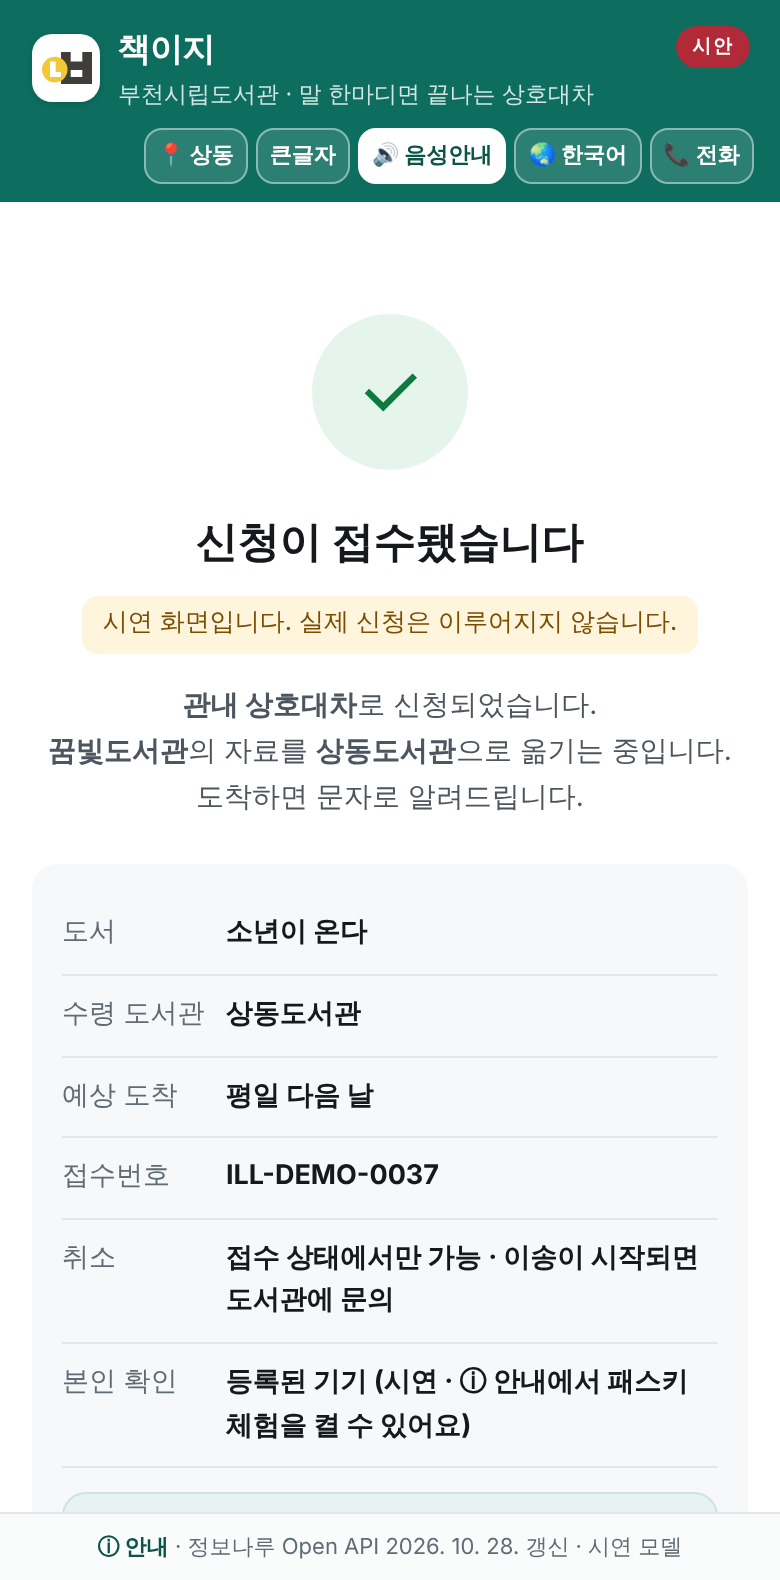
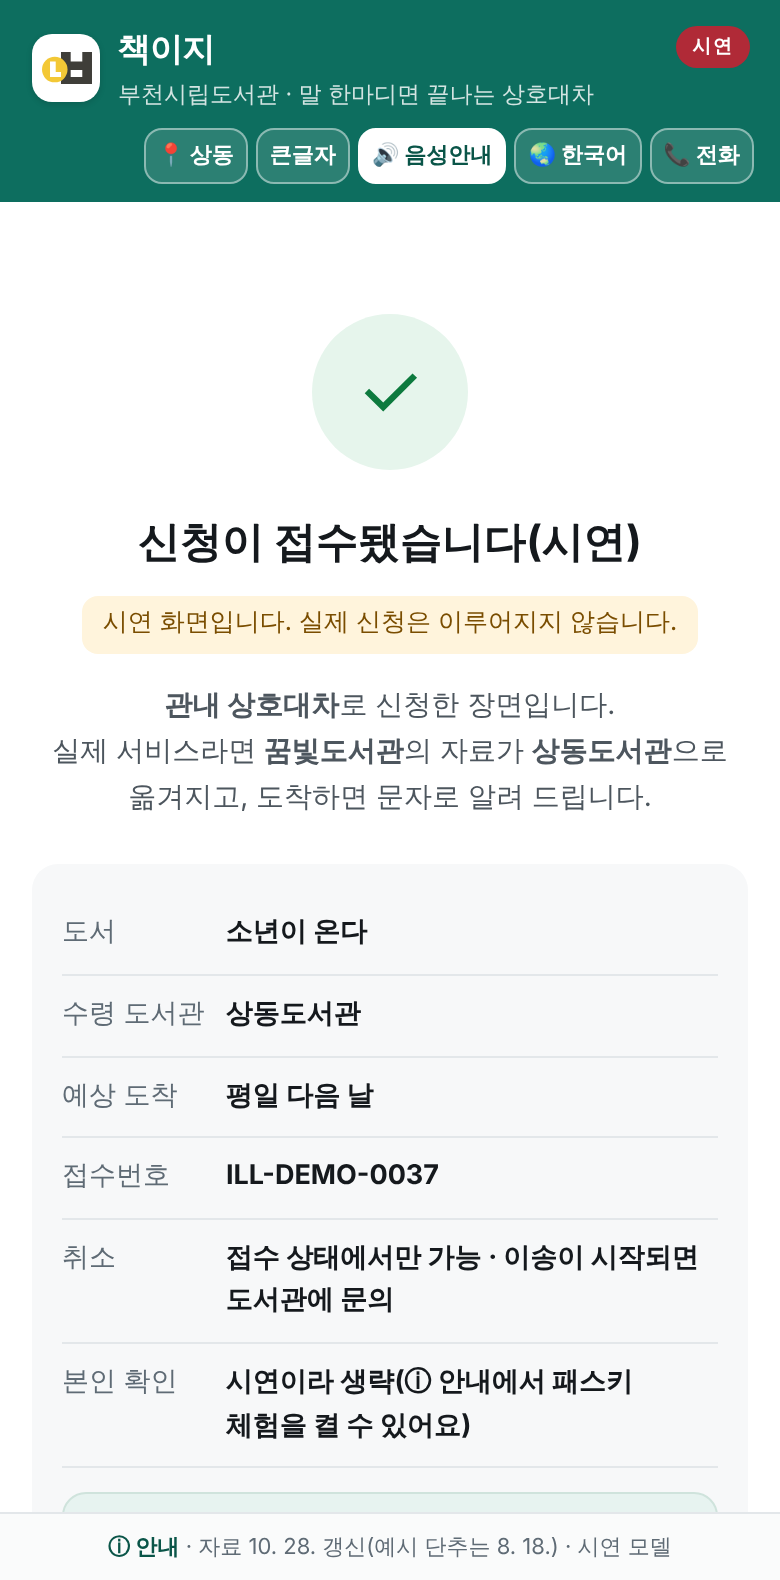
영상: 새 시연 웹(v1.12.18)·새 도구 문구로 다시 찍을 준비
- 비교 장면 오른쪽 시연 화면 5장을 v1.12.18에서 다시 찍음, 측정 날짜 「2026. 10. 27.」(담당자 확인)
- 명령 창 출력(t1~t4)을 오늘 서버로 다시 받음(접수 메모 「조회일 기준 대출 중」, 바로 이용 안내문, run.sh 끝 메시지)
- 판정 자막이 새 접수 메모 문구를 읽도록 정규식 고침(「역곡은 대출 중」이 「없음」으로 바뀌지 않게)

Claude-Session: https://claude.ai/code/session_01TtT9xcbTP3NzSioNJT8Spd

diff --git a/tools/video/cmp/compare.html b/tools/video/cmp/compare.html
@@ -94,7 +94,7 @@ html,body{margin:0;width:1280px;height:720px;overflow:hidden;background:#0f3d33;
     <div id="stamp">✓ 20초 만에 끝</div>
     <div class="meter"><div class="m"><span class="u">누른 수</span><span class="v" id="cb">0번</span></div><div class="m"><span class="u">걸린 시간</span><span class="v" id="tb">0초</span></div></div>
   </div>
-  <div id="bar"><span id="bar1">개발에 참여하지 않은 직원 3명이 시연 도서 5권으로 잰 가운데값(2026. 10. 27.~28.)</span><small id="bar2">책마다 3명 평균 · 왼쪽은 실제 누리집 화면(개인정보 가림), 누른 수와 시간은 측정 기록 · 시연 화면의 신청은 실제 접수가 아닙니다 · 기록은 저장소 server/lab/out</small></div>
+  <div id="bar"><span id="bar1">개발에 참여하지 않은 직원 3명이 시연 도서 5권으로 잰 가운데값(2026. 10. 27.)</span><small id="bar2">책마다 3명 평균 · 왼쪽은 실제 누리집 화면(개인정보 가림), 누른 수와 시간은 측정 기록 · 시연 화면의 신청은 실제 접수가 아닙니다 · 기록은 저장소 server/lab/out</small></div>
 </div>
 <script>
 const $=id=>document.getElementById(id);

diff --git a/tools/video/record.py b/tools/video/record.py
@@ -277,12 +277,12 @@ async def main():
         await hold("01")
 
         # ── 4. 같은 책을 신청해 보면(비교 장면, 4배속) ──
-        scene("04", "4 같은 책을 신청해 보면(비교)", "왼쪽 누리집 실제 화면 8장(개인정보 가림)에 누른 수·시간이 오름, 오른쪽 책이지 시연 화면은 3번 만에 「20초 만에 끝」. 실제 걸린 시간을 4배 빨리. 직원 3명이 시연 도서 5권으로 잰 가운데값(책마다 평균, 2026. 10. 27.~28.)")
+        scene("04", "4 같은 책을 신청해 보면(비교)", "왼쪽 누리집 실제 화면 8장(개인정보 가림)에 누른 수·시간이 오름, 오른쪽 책이지 시연 화면은 3번 만에 「20초 만에 끝」. 실제 걸린 시간을 4배 빨리. 직원 3명이 시연 도서 5권으로 잰 가운데값(책마다 평균, 2026. 10. 27.)")
         await crumb("")
         await page.evaluate("s=>cmpLoad(s)", "/tools/video/cmp/compare.html?spd=4")
         await ev("only('cmpf')")
         cue("같은 책을 신청해 보면 책이지는 3번 눌러 20초, 누리집은 18번 눌러 1분 20초",
-            "개발에 참여하지 않은 직원 3명이 시연 도서 5권으로 잰 가운데값(책마다 평균, 2026. 10. 27.~28.) · 왼쪽은 실제 누리집 화면(개인정보 가림) · 시연 화면의 신청은 실제 접수가 아닙니다")
+            "개발에 참여하지 않은 직원 3명이 시연 도서 5권으로 잰 가운데값(책마다 평균, 2026. 10. 27.) · 왼쪽은 실제 누리집 화면(개인정보 가림) · 시연 화면의 신청은 실제 접수가 아닙니다")
         await W(400)
         await page.evaluate("cmpPlay(4)")
         await W(700)
@@ -328,7 +328,7 @@ async def main():
         # ── 5. 명령 창 1: 관내 상호대차(찍는 날 자료로 고른 책, capture.py) · 오른쪽에 읽는 법 ──
         A1 = META["t1"]
         P1 = A1.get("pickup", "상동")
-        here1 = "대출 중" if re.search(rf"수령관: {P1} \(현재 대출 중\)", "\n".join(T1)) else "없음"
+        here1 = "대출 중" if re.search(rf"수령관: {P1} \((?:현재|조회일 기준) 대출 중\)", "\n".join(T1)) else "없음"   # [10/28] 접수 메모가 「(조회일 기준 대출 중)」으로 바뀜
         rule1 = re.search(r"규정: (\d+)건 통과 · (\d+)건 불가 · (\d+)건 창구 확인", "\n".join(T1))
         rtxt = f"규정 {rule1.group(1)}건 통과 · {rule1.group(3)}건 창구 확인" if rule1 else "규정 확인"
         scene("05", "5 명령 창 1(관내 상호대차)", f"명령 창(기록 재생) {A1['title']} · {P1}, 오른쪽 「읽는 법」 칸에서 판정·근거 → 안내문 → 접수 메모를 차례로 강조")
